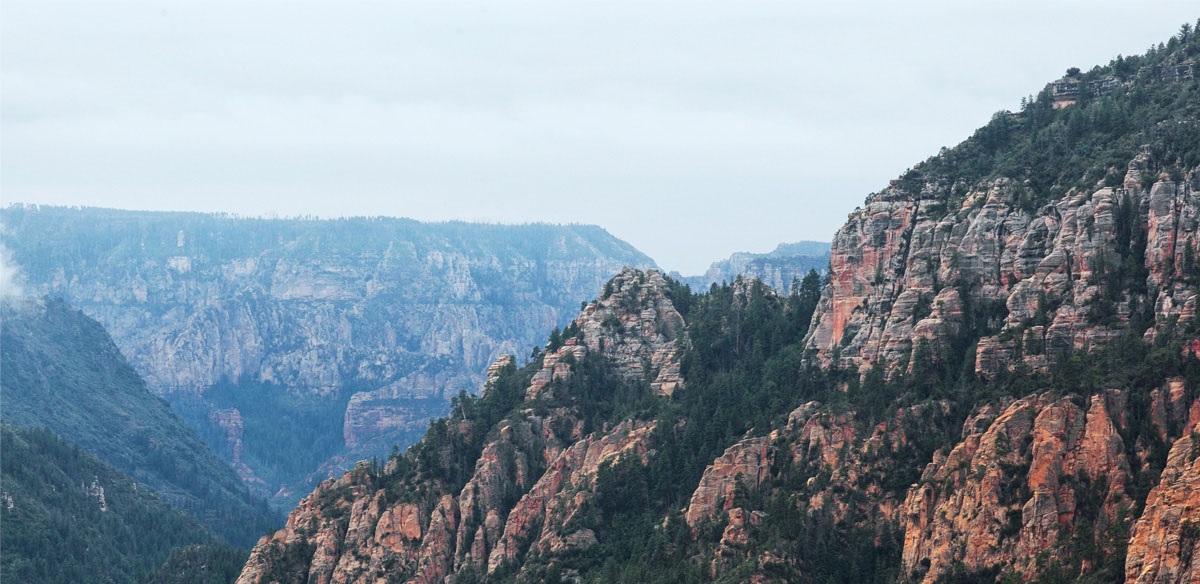
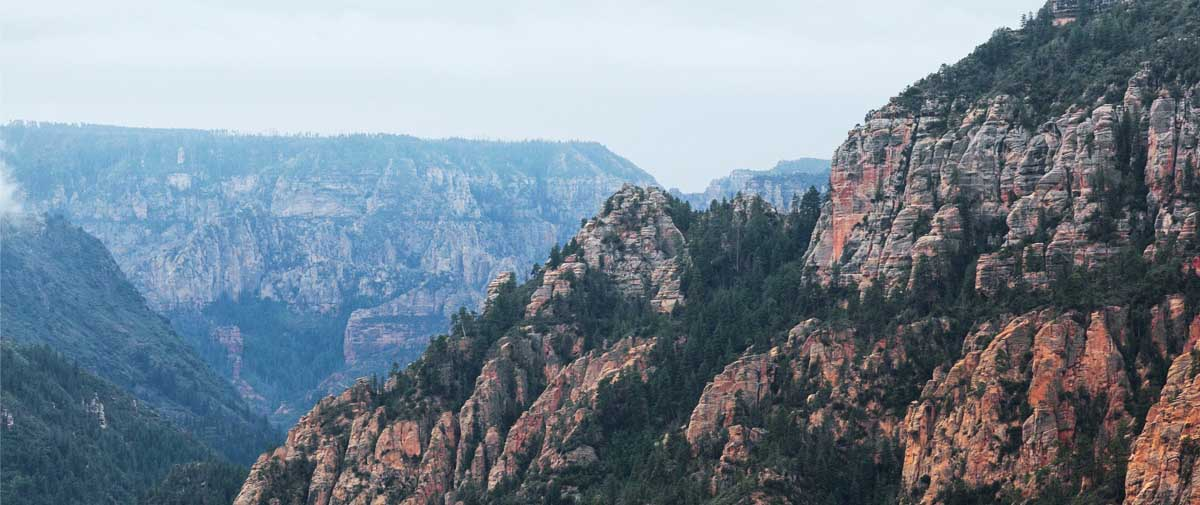
подогнал по пикселям

diff --git a/css/main.css b/css/main.css
@@ -38,11 +38,13 @@ body {
     list-style: none;
     display: flex;
     width: 1200px;
+    box-sizing: border-box;
 }
 
 .site-navigation-item {
     width: 239px;
     padding: 15px 73px;
+    box-sizing: border-box;
 }
 
 .site-navigation-item.current a {
@@ -51,6 +53,7 @@ body {
 
 .site-navigation li:nth-child(2) {
     margin-right: auto;
+    padding-right: 68px;
 }
 
 .site-navigation li:nth-child(2),
@@ -86,15 +89,15 @@ body {
 
 .bg-photo {
     width: 1200px;
-    height: 584px;
+    height: 505px;
     background-color: rgb(27, 186, 207);
     background-image:
     url(../img/welcome.svg),
     url(../img/polygon.svg),
     url(../img/background-photo.jpg);
-    background-position: 50% 50%, 50% 100%, 50% 50%;
+    background-position: 50% 50%, 50% 447px, 50% 50%;
     background-repeat: no-repeat, no-repeat, no-repeat;
-    background-size: 459px 353px, 1200px 57px, 1200px 584px;
+    background-size: 459px 353px, 1200px 59px, 1200px 505px;
 }
 
 /*ВСТУПИТЕЛЬНЫЙ ЛОЗУНГ ПОСЛЕ МЕНЮ И КАРТИНКИ*/
@@ -102,8 +105,8 @@ body {
 .text-intro {
     width: 1200px;
     text-align: center;
-    padding-top: 57px;
-    padding-bottom: 43px;
+    padding-top: 60px;
+    padding-bottom: 48px;
 }
 
 .intro-primary,
@@ -115,7 +118,7 @@ body {
     font-size: 21px;
     font-weight: bold;
     text-align: center;
-    margin-bottom: 38px;
+    margin-bottom: 30px;
 }
 
 .intro-secondary {
@@ -188,8 +191,8 @@ body {
     width: 400px;
     text-align: center;
     padding: 0 60px;
-    padding-top: 46px;
-    padding-bottom: 64px;
+    padding-top: 47px;
+    padding-bottom: 56px;
     background-color: #eee;
     color: #000;
 }
@@ -241,7 +244,8 @@ body {
     font-size: 14px;
     line-height: 21px;
     text-align: center;
-    margin-bottom: 21px;
+    margin-bottom: 23px;
+    margin-top: 25px;
 }
 
 /* ПОДРАЗДЕЛ ПРЕИМУЩЕСТВ */
@@ -262,6 +266,7 @@ body {
     padding-bottom: 81px;
     text-align: center;
     position: relative;
+    box-sizing: border-box;
 }
 
 .features-list-item::before {
@@ -296,7 +301,8 @@ body {
 
 .features-list-item h3 {
     color: #000;
-    margin-bottom: 30px;
+    margin-bottom: 25px;
+    margin-top: 5px;
 }
 
 /* БЛОК ПОИСКА */
@@ -634,6 +640,11 @@ fieldset {
     list-style: none;
     padding: 0;
     margin: 0;
+    margin-top: 10px;
+}
+
+.input-list2 {
+    margin-left: -8px;
 }
 
 .input-list li {
@@ -677,85 +688,85 @@ fieldset {
 /* ФИЛЬТР КАТАЛОГА */
 
 .filter-range {
-  width: 330px;
-
-  color: #ffffff;
-  text-transform: uppercase;
+    width: 318px;
+    color: #ffffff;
+    text-transform: uppercase;
+    margin-top: 3px;
 }
 
 .price-controls {
-  position: relative;
-  box-sizing: border-box;
-  height: 36px;
-  margin-bottom: 20px;
-  vertical-align: top;
-  font-size: 0;
-  border: 2px solid #ffffff;
-  border-radius: 2px;
+    position: relative;
+    box-sizing: border-box;
+    height: 36px;
+    margin-bottom: 20px;
+    vertical-align: top;
+    font-size: 0;
+    border: 2px solid #ffffff;
+    border-radius: 2px;
 }
 
 .price-controls::after {
-  content: "";
-  position: absolute;
-  top: 50%;
-  left: 50%;
-  width: 2px;
-  height: 22px;
-  background: #ffffff;
-  transform: translate(-50%, -50%);
+    content: "";
+    position: absolute;
+    top: 50%;
+    left: 50%;
+    width: 2px;
+    height: 22px;
+    background: #ffffff;
+    transform: translate(-50%, -50%);
 }
 
 .price-controls label {
-  display: inline-block;
-  font-size: 14px;
-  line-height: 32px;
-  cursor: pointer;
+    display: inline-block;
+    font-size: 14px;
+    line-height: 32px;
+    cursor: pointer;
 }
 
 .price-controls .min-price,
 .price-controls .max-price {
-  width: 90px;
-  padding-left: 65px;
-  height: 36px;
+    width: 90px;
+    padding-left: 65px;
+    height: 36px;
 }
 
 .price-controls input {
-  width: 50px;
-  margin: 0;
-  height: 30px;
-  color: inherit;
-  font: inherit;
-  background: none;
-  border: none;
-  vertical-align: top;
+    width: 50px;
+    margin: 0;
+    height: 30px;
+    color: inherit;
+    font: inherit;
+    background: none;
+    border: none;
+    vertical-align: top;
 }
 
 .range-controls {
-  position: relative;
-  margin-bottom: 32px;
+    position: relative;
+    margin-bottom: 32px;
 }
 
 .range-controls .scale {
-  height: 2px;
-  background: rgba(255, 255, 255, 0.3);
+    height: 2px;
+    background: rgba(255, 255, 255, 0.3);
 }
 
 .range-controls .bar {
-  width: 80%;
-  height: 2px;
-  background: #ffffff;
+    width: 80%;
+    height: 2px;
+    background: #ffffff;
 }
 
 .range-toggle {
-  position: absolute;
-  top: -9px;
-  width: 20px;
-  height: 20px;
-  background-color: #fff;
-  border: 0;
-  border-radius: 50%;
-  box-shadow: 0 2px 1px 0 rgba(88, 88, 88, 0.651);
-  cursor: pointer;
+    position: absolute;
+    top: -9px;
+    width: 20px;
+    height: 20px;
+    background-color: #fff;
+    border: 0;
+    border-radius: 50%;
+    box-shadow: 0 2px 1px 0 rgba(88, 88, 88, 0.651);
+    cursor: pointer;
 }
 
 .range-toggle::before {
@@ -770,8 +781,8 @@ fieldset {
 }
 
 .range-toggle:hover {
-  width: 22px;
-  height: 22px;
+    width: 22px;
+    height: 22px;
 }
 
 .range-toggle:hover::before {
@@ -780,31 +791,30 @@ fieldset {
 }
 
 .range-toggle-min {
-  left: 0;
+    left: 0;
 }
 
 .range-toggle-max {
-  left: 80%;
+    left: 80%;
 }
 
 .btn-transparent {
-  display: block;
-  margin: 0 auto;
-  padding: 6px 35px;
-  font-size: 14px;
-  line-height: 20px;
-  color: #ffffff;
-  text-transform: uppercase;
-  background: transparent;
-  border: 2px solid #ffffff;
-  border-radius: 2px;
-  cursor: pointer;
+    display: block;
+    margin: 0 auto;
+    padding: 6px 35px;
+    font-size: 14px;
+    line-height: 20px;
+    color: #ffffff;
+    text-transform: uppercase;
+    background: transparent;
+    border: 2px solid #ffffff;
+    border-radius: 2px;
+    cursor: pointer;
 }
 
 .btn-transparent:hover {
-  color: #000000;
-
-  background: #ffffff;
+    color: #000000;
+    background: #ffffff;
 }
 
 .filters-form .max-price,
@@ -922,6 +932,7 @@ fieldset {
 .modal {
     display: block;
     padding: 55px;
+    padding-top: 35px;
     width: 569px;
     height: 395px;
     box-sizing: border-box;
@@ -929,6 +940,7 @@ fieldset {
     top: 291px;
     left: 316px;
     background-color: #fff;
+    box-shadow: 8px 0 15px -3px rgba(0, 1, 1, 0.1), -8px 0 15px -3px rgba(0, 1, 1, 0.1);
 }
 
 .js {
@@ -1028,6 +1040,7 @@ fieldset {
     font-weight: bold;
     color: #fff;
     text-transform: uppercase;
+    margin-top: 25px;
 }
 
 .button-find:hover,

diff --git a/catalog.html b/catalog.html
@@ -65,7 +65,7 @@
             </fieldset>
             <fieldset class="type-of-housing">
               <legend>Тип жилья:</legend>
-              <ul class="input-list">
+              <ul class="input-list input-list2">
                 <li>
                   <input id="hotel" class="visually-hidden" type="checkbox" name="type-of-housing" value="hotel" checked>
                   <label for="hotel">Гостиница</label>
@@ -130,7 +130,7 @@
               </div>
               <div class="rate">
                 <span class="star-rating" aria-label="Рейтинг позиции - четыре звезды">★ ★ ★ ★</span>
-                <span class="rating">Рейтинг: 9,2</span>
+                <span class="rating">Рейтинг: 8,5</span>
               </div>
             </li>
             <li class="catalog-item">
@@ -148,7 +148,7 @@
               </div>
               <div class="rate">
                 <span class="star-rating" aria-label="Рейтинг позиции - три звезды">★ ★ ★</span>
-                <span class="rating">Рейтинг: 9,2</span>
+                <span class="rating">Рейтинг: 8,9</span>
               </div>
             </li>
             <li class="catalog-item">
@@ -185,7 +185,7 @@
             </ul>
           </div>
           <a class="developer footer-socials-item" href="https://htmlacademy.ru/intensive/htmlcss" target="_blank" rel="noopener noreferrer">
-            <sup>Website by</sup>
+            <span>Website by</span>
             <svg xmlns="http://www.w3.org/2000/svg" aria-label="Разработано HTMLAcademy" data-name="Layer 1" viewBox="0 0 113 39" width="101" height="40">
               <path fill="#000" d="M46.84 28.22a2.07 2.07 0 0 0 .58-.11v1.4a3.41 3.41
                 0 0 1-1.24.22 1.75 1.75 0 0 1-1.75-1 5.08 5.08 0 0 1-3.3 1.13c-1.59

diff --git a/index.html b/index.html
@@ -48,7 +48,7 @@
         <section class="advantages">
           <h2 class="visually-hidden">Преимущества</h2>
           <div class="text-intro">
-            <p class="intro-primary">Седона - небольшой городок в Аризоне,<br> заслуживающий большего!</p>
+            <p class="intro-primary">Седона — небольшой городок в Аризоне,<br> заслуживающий большего!</p>
             <p class="intro-secondary">Рассмотрим 5 причин, по которым Седона круче, чем Гранд каньон!</p>
           </div>
           <ol class="advantages-list">
@@ -126,7 +126,7 @@
             </p>
             <p class="form-item">
               <label>Дата выезда:
-                <input class="date" type="text" name="departure" placeholder="4 АПРЕЛЯ 2017">
+                <input class="date" type="text" name="departure" placeholder="4 ИЮЛЯ 2017">
               </label>
             </p>
             <p class="form-item">
